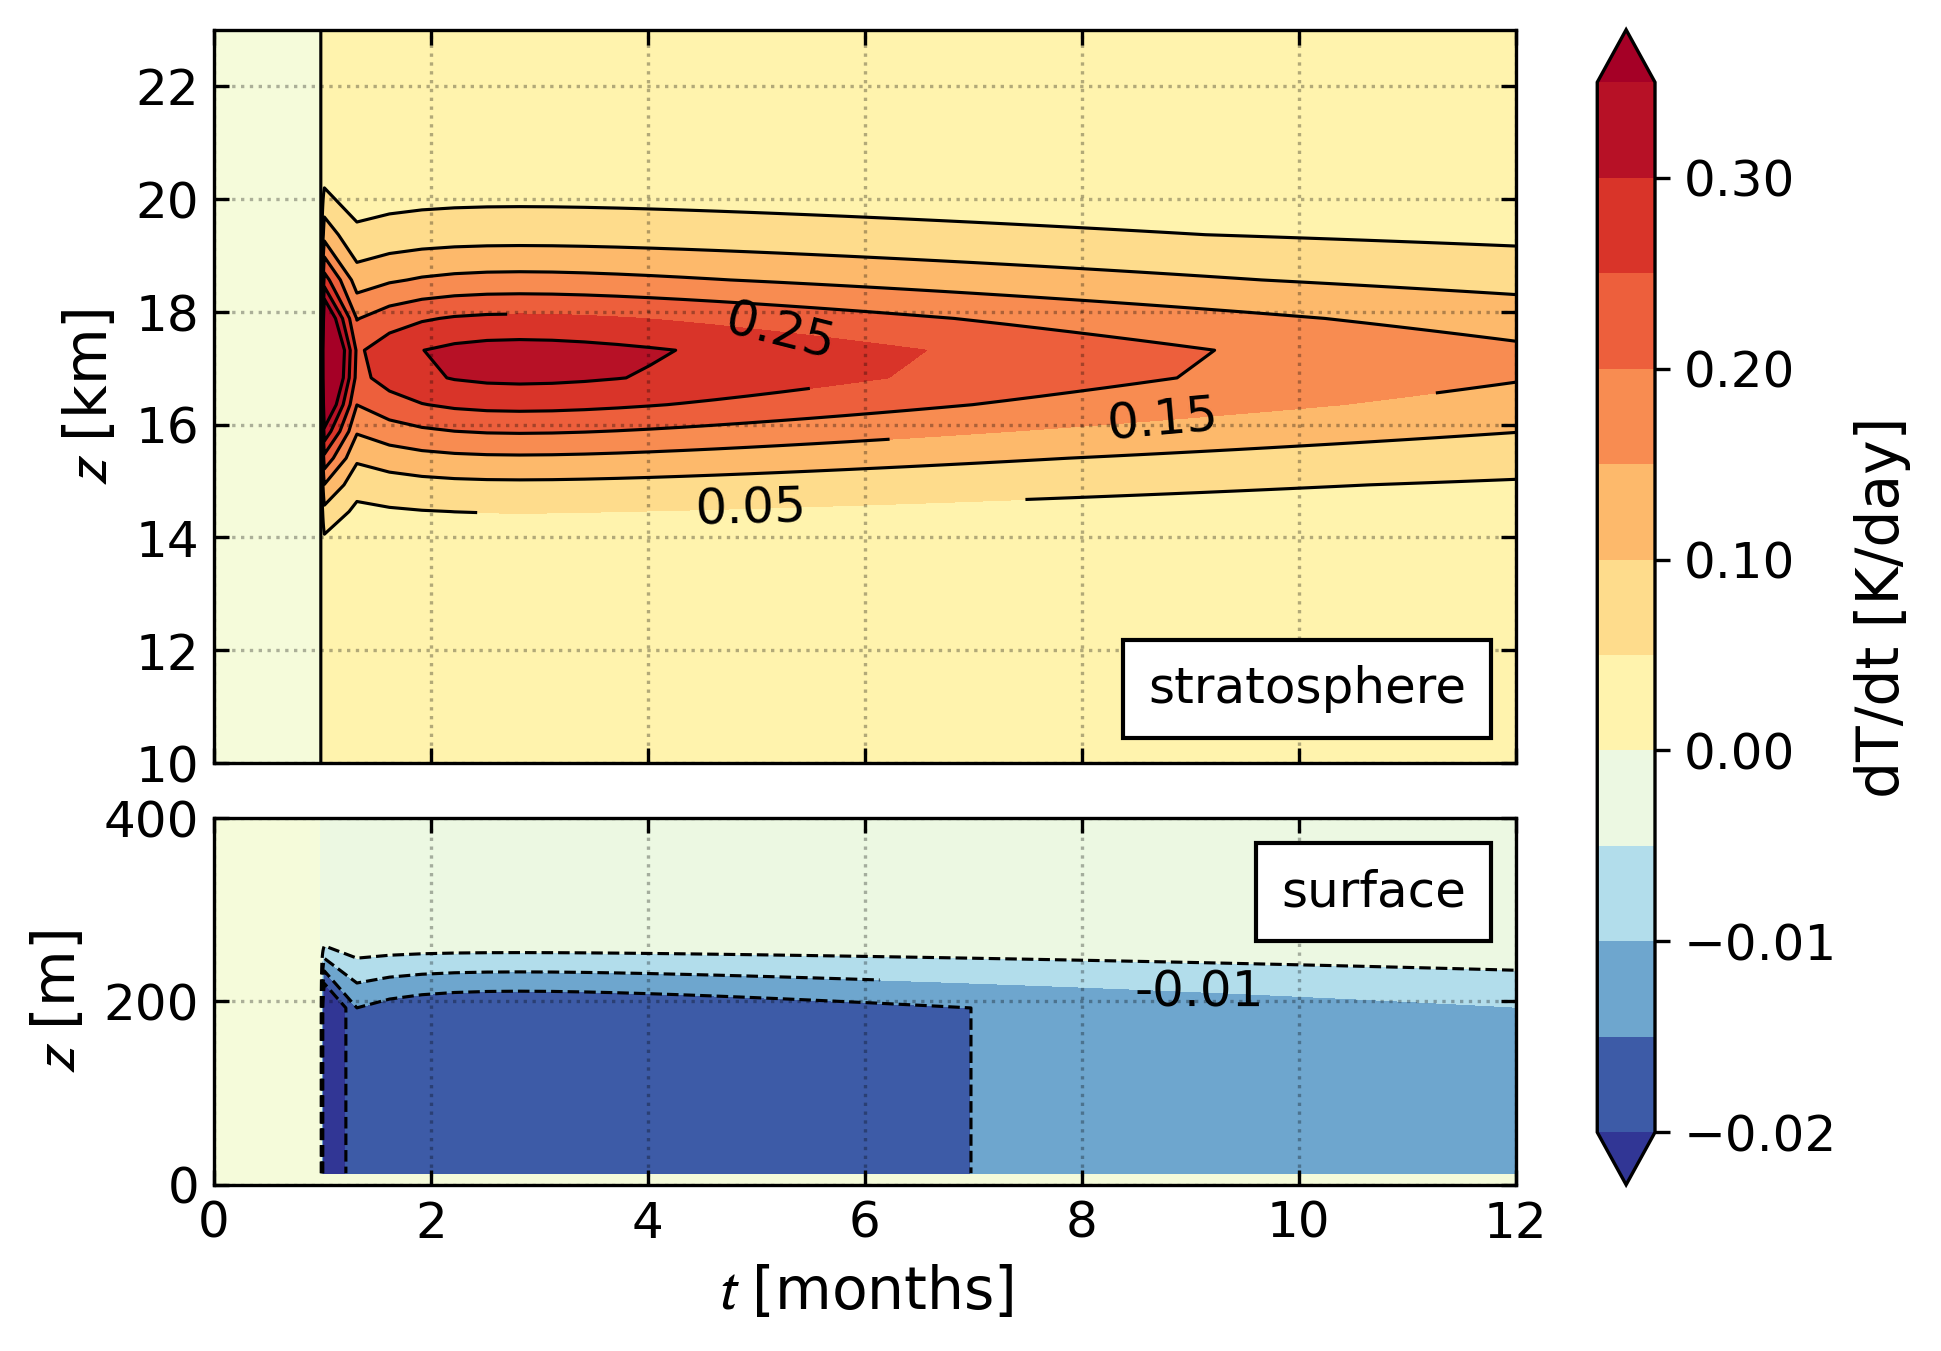
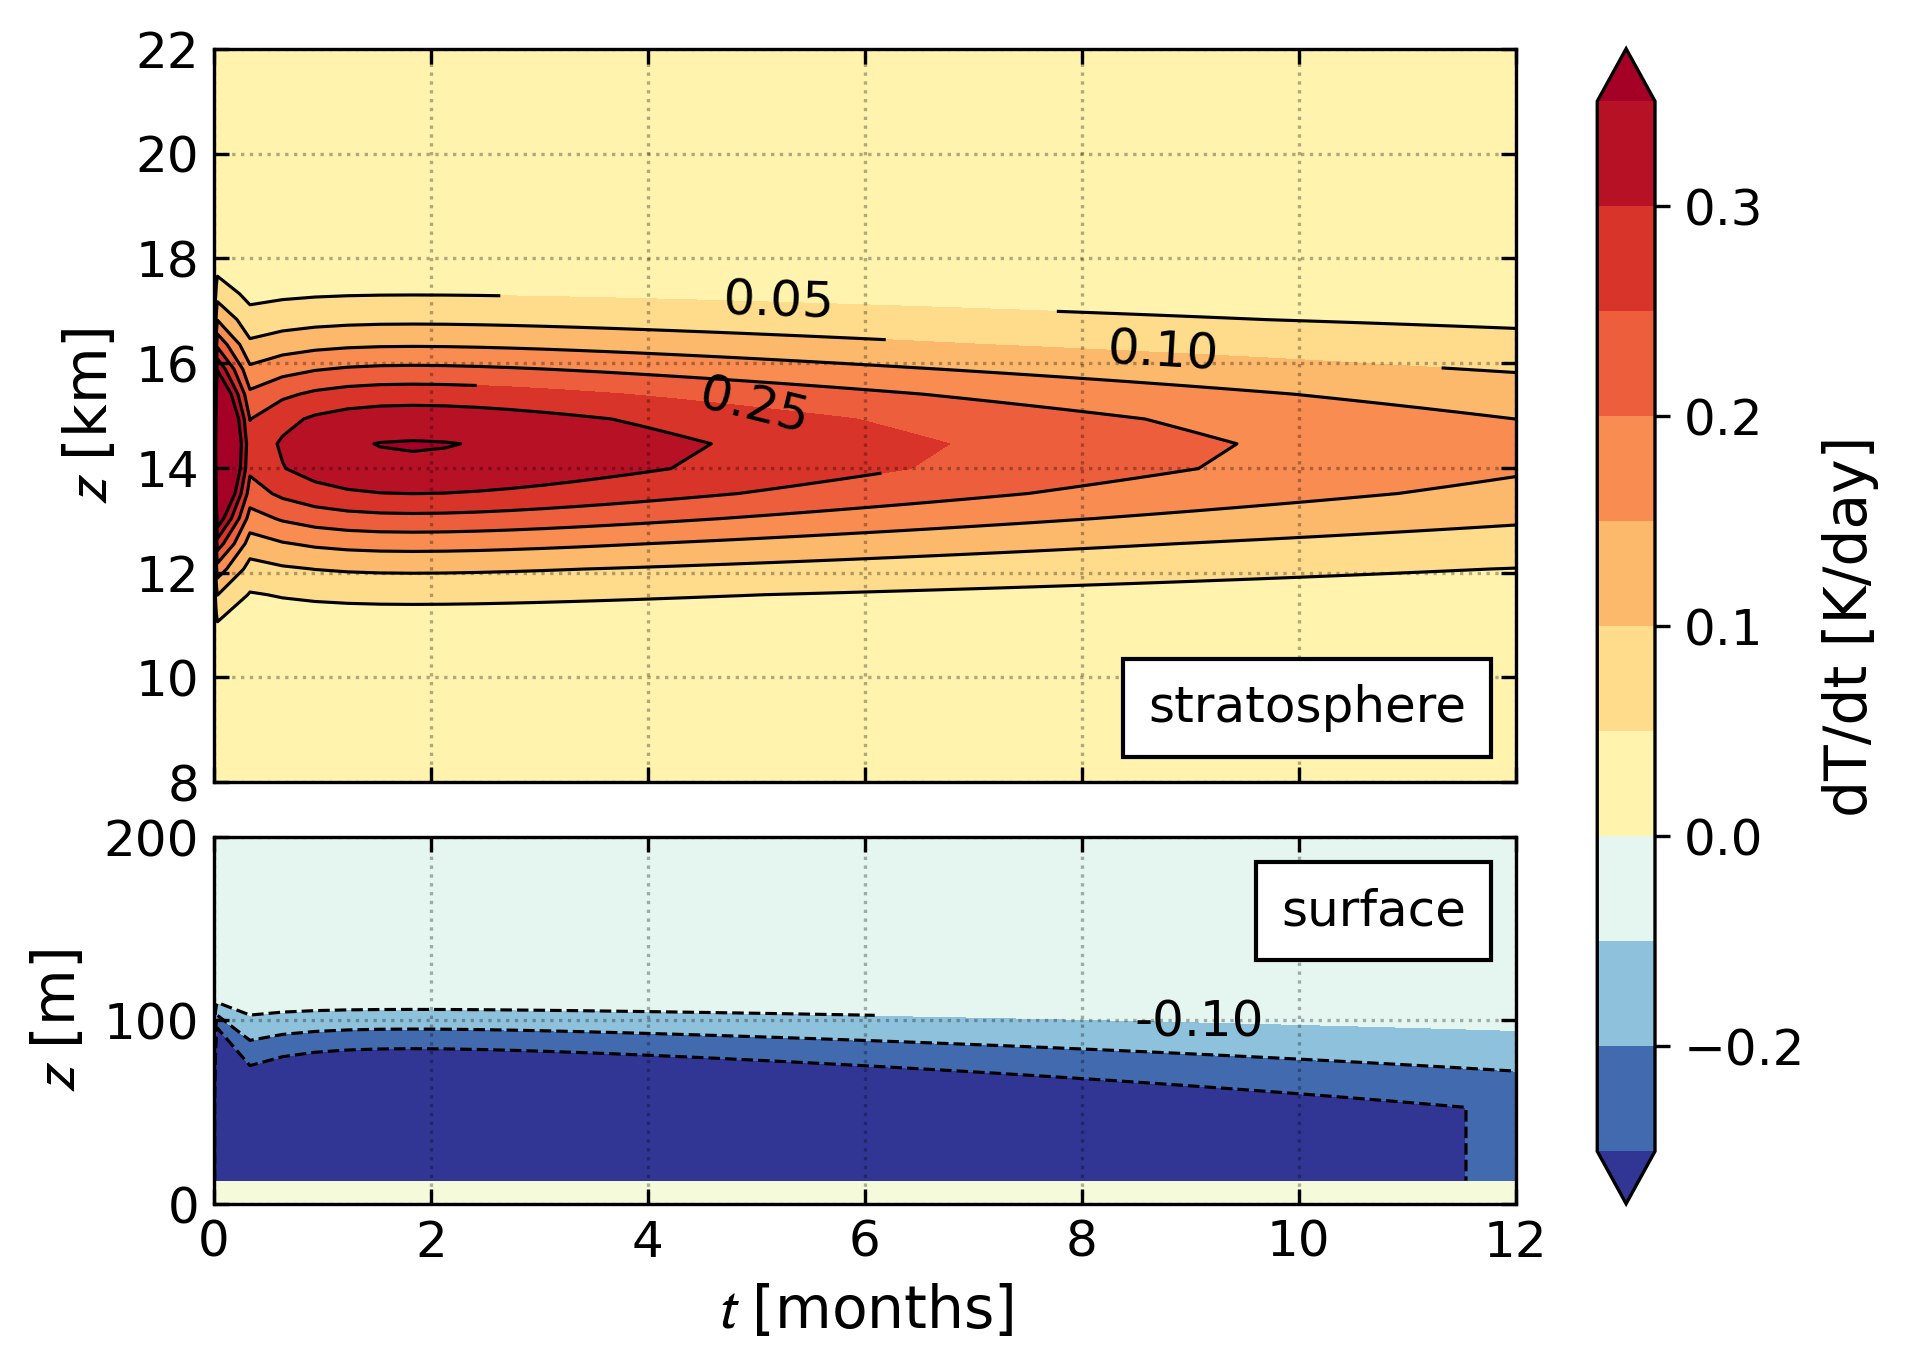
syncing with miniroomba

diff --git a/CLDERA/SAI/analysis/vis_plume_column_agu_new.py b/CLDERA/SAI/analysis/vis_plume_column_agu_new.py
@@ -20,9 +20,9 @@ cmap_gmt = claut.ncar_rgb_to_cmap(gmt)
 # ---------- parameters ----------
 lat0 = 15.15 * u.deg
 lon0 = 120.35 * u.deg
-mu = (17 * u.km).to(u.m)
+mu = (14 * u.km).to(u.m)
 sigma = (1.5 * u.km).to(u.m)
-t0 = (30*u.day).to(u.s)
+t0 = (0*u.day).to(u.s)
 tf = t0 + (24 * u.hr).to(u.s)
 dt = tf-t0
 kso2 = 1/((25 * u.day).to(u.s))
@@ -60,12 +60,17 @@ def compute_tracer_evolution(nlev = 'e3sm', zk = None, dt_inject = None, dt_deca
         True, the return for the numerical result is None
     '''
     # ---------- vertical distribution ----------
-    z0 = 12 * u.km
-    zT = 24 * u.km
+    z0 = 8 * u.km
+    zT = 22 * u.km
     if(zk is None):
         if(nlev == 'e3sm'):
-           zk = np.array([12066.939, 12551.622, 13032.191, 13509.571, 13984.683, 14458.534, 14931.965, 15405.396, 15879.088, 16353.361, 
-                          16828.559, 17318.906, 17882.68, 18564.715, 19366.602, 20290.275, 21337.922, 22513.977, 23836.834, 25323.637, 
+           #try:
+           #    zk = xr.open_dataset('data/E3SM_Z3_HSyr6_horzAvg.nc')['Z3'].values * u.m
+           #except FileNotFoundError:
+           zk = np.array([12066.939, 12551.622, 13032.191, 13509.571, 13984.683, 
+                          14458.534, 14931.965, 15405.396, 15879.088, 16353.361, 
+                          16828.559, 17318.906, 17882.68, 18564.715, 19366.602, 
+                          20290.275, 21337.922, 22513.977, 23836.834, 25323.637, 
                           26980.406, 28813.516, 30832.33, 33047.85]) * u.m
         else:
             zk = (np.linspace(z0, zT, nlev)).to(u.m)
@@ -183,9 +188,9 @@ if(z_figure):
     A = 17*1e9*u.kg/(9*3600*u.s * np.sum(V_e3sm))
     dmdt = A * V_e3sm
 if(heating_figure):
-    #zk = xr.open_dataset('data/E3SM_Z3_HSyr6_horzAvg.nc')['Z3']
-    #zk = sorted(zk.values) * u(zk.units)
-    m_analytic_heat, _, zk_heat, _, t_heat = compute_tracer_evolution(zk=zk, analytic_only=True)
+    zk_heat = xr.open_dataset('data/E3SM_Z3_HSyr6_horzAvg.nc')['Z3']
+    zk_heat = sorted(zk_heat.values) * u(zk_heat.units)
+    m_analytic_heat, _, zk_heat, _, t_heat = compute_tracer_evolution(zk=zk_heat, analytic_only=True)
 
     
 # ==================================================================
@@ -204,26 +209,22 @@ if(main_figure):
     m_tot_num = np.sum(m_numerical.to('Mt'), axis=2)
 
     # ---------- vis ----------
-    fig = plt.figure(figsize=(9,10))
+    fig = plt.figure(figsize=(7,6))
     gs = fig.add_gridspec(nrows=4, ncols=4)
     ax0 = fig.add_subplot(gs[:,0])
-    ax1 = fig.add_subplot(gs[0,1:])
-    ax2 = fig.add_subplot(gs[1,1:])
-    ax3 = fig.add_subplot(gs[2,1:])
-    ax4 = fig.add_subplot(gs[3,1:])
+    ax3 = fig.add_subplot(gs[0:2,1:])
+    ax4 = fig.add_subplot(gs[2:,1:])
 
     # ---- plotting properties
     clev = np.linspace(-7, -4, 10)
     clev_thin_contours = clev[clev % 1 != 0]
-    clev_contours = np.linspace(-7, -4, 4)
-    cm = plt.cm.RdYlBu_r
-    cm = cmap_gmt
+    clev_contours = clev[clev % 1 == 0]
     cm = plt.cm.YlOrRd
     cbar_tick_labels = np.array(['{:.0f}'.format(lev) for lev in clev])
     cbar_tick_labels[clev % 1 != 0] = ''
 
     # ---- global ax settings
-    for ax in [ax0, ax1, ax2, ax3, ax4]:
+    for ax in [ax0, ax3, ax4]:
         if(ax != ax0):
             ax.yaxis.set_label_position("right")
             ax.yaxis.tick_right()
@@ -231,39 +232,26 @@ if(main_figure):
         ax.set_ylabel('$z$ [km]', fontsize=label_fs)
         ax.tick_params(axis='both', which='major', labelsize=tick_fs)
         claut.format_ticks(ax)
-    for ax in [ax1, ax2, ax3]:
+    for ax in [ax3]:
         ax.set_facecolor((1,1,204/255))
 
     # ----- plot V(z) profile
-    #  get higher res zk
-    zk_fine = (np.linspace(10, 26, 1000) * u.km).to(u.m)
+    zk_fine = (np.linspace(8, 22, 1000) * u.km).to(u.m)
     V_fine = f(zk_fine)
     ax0.plot(V_fine.to(u.km**(-1)), zk_fine.to(u.km), '-k', lw=2.5)
     ax0.set_xlabel('$V(z)$ [km$^{-1}$]', fontsize=label_fs)
-    ax0.set_ylim([10, 26])
+    ax0.set_ylim([8, 22])
 
     # ----- contour plots of denisty evolution
-    #cf1 = ax1.contourf(t.to(u.day), zk.to(u.km), m_dens[1].T, cmap=cm, levels=clev, extend='both', vmin=-7.5)
-    cf1 = ax1.contourf(t.to(u.day), zk.to(u.km), m_dens[1].T, cmap=cm, levels=clev, extend='both')
-    ax1.contour(t.to(u.day), zk.to(u.km), m_dens[1].T, levels=clev_thin_contours, colors=['k']*len(clev_contours), linewidths=0.5)
-    ax1.set_xlim([t0.to(u.day).m-1.33, t0.to(u.day).m+14])
-    ax1.set_xlabel('$t$ [days]', fontsize=label_fs)
-    claut.add_annotation_box(ax1, 'ash', loc='upper right', fs=label_fs)
-
-    ax2.contourf(t.to(u.month), zk.to(u.km), m_dens[0].T, cmap=cm, levels=clev, extend='both', vmin=-7.5)
-    ax2.contour(t.to(u.day), zk.to(u.km), m_dens[0].T, levels=clev_thin_contours, colors=['k']*len(clev_contours), linewidths=0.5)
-    ax2.set_xlim([0, 12])
-    ax2.set_xlabel('$t$ [months]', fontsize=label_fs)
-    claut.add_annotation_box(ax2, 'SO$_2$', loc='upper right', fs=label_fs)
-
-    ax3.contourf(t.to(u.year), zk.to(u.km), m_dens[2].T, cmap=cm, levels=clev, extend='both', vmin=-7.5)
+    cf = ax3.contourf(t.to(u.year), zk.to(u.km), m_dens[2].T, cmap=cm, levels=clev, extend='both')
     ax3.contour(t.to(u.day), zk.to(u.km), m_dens[2].T, levels=clev_thin_contours, colors=['k']*len(clev_contours), linewidths=0.5)
-    ax3.set_xlim([-0.35, 5])
+    ax3.set_xlim([-5*0.05, 5])
     ax3.set_xlabel('$t$ [years]', fontsize=label_fs)
+    ax3.set_ylim([8, 22])
     claut.add_annotation_box(ax3, 'sulfate', loc='upper right', fs=label_fs)
 
     # ----- color bar
-    cbar = fig.colorbar(cf1, ax=ax1, orientation='horizontal', location='top')
+    cbar = fig.colorbar(cf, ax=ax3, orientation='horizontal', location='top')
     cbar.set_label('log$_{10}$( density [kg/m$^3$] )', fontsize=label_fs)
     cbar.set_ticklabels(cbar_tick_labels)
     cbar.ax.tick_params(labelsize=tick_fs)
@@ -272,24 +260,16 @@ if(main_figure):
     #ax4.plot(t.to(u.month), m_tot[1], 'c', label='ash')
     ax4.plot(t.to(u.month), m_tot[0], 'c', label='SO$_2$', lw=4)
     ax4.plot(t.to(u.month), m_tot[2], 'orange', label='sulfate', lw=4)
-    ax4.plot(t.to(u.month), m_tot[3], ':', color='orange', label='sulfate validation', lw=3)
-    ax4.plot(t.to(u.month), m_tot_num[0], 'k', label='numerical solutions', lw=0.85)
-    ax4.plot(t.to(u.month), m_tot_num[2], 'k', lw=0.85)
-    ax4.plot(t.to(u.month), m_tot_num[3], 'k', lw=0.85)
     ax4.set_xlabel('$t$ [months]', fontsize=label_fs)
     ax4.set_ylabel('total mass [Mt]', fontsize=label_fs)
     ax4.legend(fancybox=False, fontsize=tick_fs, loc='upper right', ncol=2, frameon=False)
-    ax4.set_xlim([0, 24])
+    ax4.set_xlim([-24*0.05, 24])
 
     plt.tight_layout()
 
     # manually add contour labels after tight layout
     cc3 = ax3.contour(t.to(u.day), zk.to(u.km), m_dens[2].T, levels=clev_contours, colors=['k']*len(clev_contours))
-    ax3.clabel(cc3, cc3.levels, inline=True, fmt='%.0f', fontsize=tick_fs)
-    cc1 = ax1.contour(t.to(u.day), zk.to(u.km), m_dens[1].T, levels=clev_contours, colors=['k']*len(clev_contours))
-    ax1.clabel(cc1, cc1.levels, inline=True, fmt='%.0f', fontsize=tick_fs, manual=((31, 15.2), (33.5, 18.3), (35.4, 18.9), (37.3, 19.4)))
-    cc2 = ax2.contour(t.to(u.day), zk.to(u.km), m_dens[0].T, levels=clev_contours, colors=['k']*len(clev_contours))
-    ax2.clabel(cc2, cc2.levels, inline=True, fmt='%.0f', fontsize=tick_fs, manual=((2.45, 18.53), (4, 18.9), (5.64, 19.3)))
+    #ax3.clabel(cc3, cc3.levels, inline=True, fmt='%.0f', fontsize=tick_fs)
 
     plt.savefig('figs/sai_column_main_fig_new.png', dpi=300)
 
@@ -324,7 +304,7 @@ if(z_figure):
     axV.legend(fancybox=False, fontsize=tick_fs, loc='upper right')
     axV.set_xlabel('$V(z)$ [km$^{-1}$]', fontsize=label_fs)
     axV.set_ylabel('$z$ [km]', fontsize=label_fs)
-    axV.set_ylim([12, 24])
+    axV.set_ylim([8, 22])
 
     # ----- line plots of total mass
     axM.plot(t.to(u.month), (m_tot_8[0]-m_tot_100[0]) * 1e14, '-b', lw=2, 
@@ -413,9 +393,9 @@ if(heating_figure):
     sb= 5.670374419e-8 * u.W/u.m**2/u.K**4
     cp = const.Cp_d
     cell_area = (200*u.km)**2
-    maxaod_z = 0.2 * u.km
+    maxaod_z = 0.1 * u.km
     maxaod_idx = np.searchsorted(zk_heat, maxaod_z)
-    zeta = 4.7e-4
+    zeta = 4e-3
     lat = 0 *np.pi/180
     Isw = 558.54*u.W/u.m**2 * np.cos(lat)
     Ilw = sb*(315*u.K - 60*u.K * np.sin(lat)**2)**4
@@ -423,7 +403,7 @@ if(heating_figure):
     # turn off sulfate_control contribution via toggle at index 3 V
     
     if(retune):
-        blw = np.array([1, 1, 1, 0]) * 0.0042 * u.m**2/u.kg # for single column
+        blw = np.array([1, 1, 1, 0]) * 0.0082 * u.m**2/u.kg # for single column
         bsw = np.array([1, 1, 1, 0]) * 0.3 * u.m**2/u.kg # for single column
     else:
         blw = np.array([1, 1, 1, 0]) * 0.062 * u.m**2/u.kg # for E3SM
@@ -553,7 +533,7 @@ if(heating_figure):
     
     if(retune):
         clev1 = np.linspace(0.05, 0.35, 7)
-        clev2 = np.linspace(-0.02, 0, 5)
+        clev2 = np.linspace(-0.3, 0, 4)
         clev = np.hstack([clev2, clev1])
         clev_lab = [-0.02, -0.01, 0.1, 0.2, 0.3]
         clab_fmt = '.2f'
@@ -594,9 +574,9 @@ if(heating_figure):
     ax2.set_xlabel('$t$ [months]', fontsize=label_fs)
     ax2.set_ylabel('$z$ [m]', fontsize=label_fs)
     ax1.set_ylabel('$z$ [km]', fontsize=label_fs)
-    ax1.set_ylim([10, 23])
+    ax1.set_ylim([8, 22])
     ax1.set_xlim([0, 12])
-    ax2.set_ylim([0, 400])
+    ax2.set_ylim([0, 200])
     ax2.set_xlim([0, 12])
     claut.add_annotation_box(ax1, 'stratosphere', loc='lower right', fs=tick_fs)
     claut.add_annotation_box(ax2, 'surface', loc='upper right', fs=tick_fs)

diff --git a/CLDERA/SAI/analysis/check_aod_std_late.py b/CLDERA/SAI/analysis/check_aod_std_late.py
@@ -15,10 +15,10 @@ from climate_artist import horizontal_slice as pltvert
 # --- miniroomba
 loc = '/Users/joe/tmp'
 out = '/Users/joe/tmp'
-figs = '/Users/joe/repos/climate_analysis/CLDERA/SAI/analysis/figs/aod_check'
+figs = '/Users/joe/repos/climate_analysis/CLDERA/SAI/analysis/figs/aod_check_late'
 
 ens = [xr.open_dataset(glob.glob('{}/ens0{}/AOD.h2*'.format(loc, i+1))[0])['AOD'] for i in range(5)]
-pdb.set_trace()
+
 # zero out almost-zeros
 #for i in range(5):
 #    pdb.set_trace()
@@ -50,24 +50,30 @@ ensstd.to_netcdf('{}/ensstd.nc'.format(out))
 
 # ==================== plot ===========
 
-tstart = 89
+tstart = 135
 cm = plt.cm.rainbow
-clev = np.linspace(0, 1, 6) + 1e-3
+clev = np.linspace(0, 0.07, 6) + 1e-4
 pltargs = {'levels':clev, 'cmap':cm, 'extend':'both'}
 
-clev_c = np.linspace(0.25, 0.75, 3) + 1e-3
+clev_c = np.linspace(0.01, 0.06, 3) + 1e-4
 pltargs_c = {'levels':clev_c, 'colors':None, 'linewidths':1.25}
 
-clev_mean = np.linspace(0, 0.4, 7) + 1e-3
+clev_mean = np.linspace(0, 0.07, 7) + 1e-4
+clev_mean = clev_mean*1000000 #tmp
 cm_mean = plt.cm.Greys
-pltargs_mean = {'levels':clev, 'cmap':cm_mean, 'extend':'both', 'alpha':1}
+pltargs_mean = {'levels':clev_mean, 'cmap':cm_mean, 'extend':'both', 'alpha':1}
 
-clev_std = np.linspace(0, 1, 6) + 1e-3
+clev_std = np.linspace(0, 0.01, 6) + 1e-4
+clev_std = clev_std * 10 #tmp
 cm_std = plt.cm.rainbow
 pltargs_std = {'levels':clev_std, 'cmap':cm_std, 'extend':'both', 'alpha':1}
 
 LON, LAT = np.meshgrid(lon, lat)
 colors = ['r', 'b', 'g', 'm', 'c']
+
+fac = 5
+clev = clev * fac
+clev_c = clev_c * fac
 
 for j in range(nt-tstart):
     
@@ -81,8 +87,8 @@ for j in range(nt-tstart):
     #ax6 = fig.add_subplot(326, projection=ccrs.PlateCarree())
     ax = [ax1, ax2, ax3, ax4]
     fig2 = plt.figure(figsize=(12, 3))
-    ax6 = fig2.add_subplot(121, projection=ccrs.Mercator())
-    ax7 = fig2.add_subplot(122, projection=ccrs.Mercator())
+    ax6 = fig2.add_subplot(121, projection=ccrs.PlateCarree())
+    ax7 = fig2.add_subplot(122, projection=ccrs.PlateCarree())
     fig.suptitle('Day {:.0f}'.format((tstart+j) * 2), fontsize=14)
     fig2.suptitle('Day {:.0f}'.format((tstart+j) * 2), fontsize=14)
         
@@ -113,12 +119,13 @@ for j in range(nt-tstart):
             plthor(lon, lat, var_dict, ax=ax6, annotation=None, include_contours=False, 
                    coastlines=False)
         ax6.plot([0,0], [0,0], color=colors[i], label='ens0{}'.format(i+1))
-        ax6.set_extent((-180, 180, -40, 60))
-        ax7.set_extent((-180, 180, -40, 60))
-        ax6.set_aspect(1.5)
-        ax7.set_aspect(1.65)
+        #ax6.set_extent((-180, 180, -40, 60))
+        #ax7.set_extent((-180, 180, -40, 60))
+        #ax6.set_aspect(1.5)
+        #ax7.set_aspect(1.65)
     ax6.legend(loc='lower left', ncol=2)
     fig.tight_layout()
     fig2.tight_layout()
+    plt.show()
     fig.savefig('{}/ens{:03d}.png'.format(figs, j))
     fig2.savefig('{}/std{:03d}.png'.format(figs, j))

diff --git a/CLDERA/HSW/analysis/vis_WHS_Teq.py b/CLDERA/HSW/analysis/vis_WHS_Teq.py
@@ -168,18 +168,20 @@ levels1 = np.arange(140, 320, 20)
 fig = plt.figure(figsize=(7,5))
 ax = fig.add_subplot(111)
 
-axx = ax.twiny()
-axx.plot(kr.to(1/u.day), pmid/100, '-r', lw=2)
-axx.set_xlabel('RF damping timescale [1/day]', fontsize=12, color='r')
-axx.tick_params(axis='x', colors='red')
-axx.set_xlim([-0.003, 0.35])
+plotRF = False
+if plotRF:
+    axx = ax.twiny()
+    axx.plot(kr.to(1/u.day), pmid/100, '-r', lw=2)
+    axx.set_xlabel('RF damping timescale [1/day]', fontsize=12, color='r')
+    axx.tick_params(axis='x', colors='red')
+    axx.set_xlim([-0.003, 0.35])
 
 cArgs_c = {'fmt':'%d', 'manual':((-43.2, 228), (-26.57, 305), (0, 399), (26.87, 533), 
                                  (40.55, 814), (0, 870))}
 pltargs_c = {'levels':levels1, 'colors':'k', 'linewidths':1.5, 'zorder':1}
 var_dict_c = [{'var':teq_trunc1.T, 'plotType':'contour', 'plotArgs':pltargs_c, 'colorArgs':cArgs_c}]
 cc = pltvert(clat * 180/np.pi, pref_mid_norm*psurf_ref/100, var_dict_c, ax=ax, 
-        plot_zscale=True, slice_at='', xlabel='latitude', ylabel='p  [hPa]')
+        plot_zscale=True, annotation='', xlabel='latitude', ylabel='p  [hPa]')
 for label in cc[0]:
     label.set_rotation(0)
 
@@ -189,10 +191,10 @@ cArgs_c = {'fmt':'%d', 'manual':((0, 105), (0, 29), (0, 16), (0, 9), (0, 6),(0, 
 pltargs_c = {'levels':levels2, 'colors':'k', 'linewidths':1.5, 'zorder':1}
 var_dict_c = [{'var':teq_trunc2.T, 'plotType':'contour', 'plotArgs':pltargs_c, 'colorArgs':cArgs_c}]
 cc = pltvert(clat * 180/np.pi, pref_mid_norm*psurf_ref/100, var_dict_c, ax=ax, 
-        plot_zscale=False, inverty=False, slice_at='', xlabel='latitude', ylabel='p  [hPa]')
+        plot_zscale=False, inverty=False, annotation='', xlabel='latitude', ylabel='p  [hPa]')
 
 
 plt.tight_layout()
-fig.savefig('WHS_newTeq.png', dpi=300)
-#plt.show()
+fig.savefig('WHS_newTeq_noRF.png', dpi=300)
+plt.show()
 

diff --git a/CLDERA/SAI/analysis/1d_heat_functions.py b/CLDERA/SAI/analysis/1d_heat_functions.py
@@ -25,11 +25,11 @@ integ_sw = (np.pi*Re)**2 * S
 
 # -------- heating balance fig
 
-fig = plt.figure()
+fig = plt.figure(figsize=(4,3.5))
 ax = fig.add_subplot(111)
-ax.plot(latd, Ilw, '-r', label='outgoing longwave radiation')
-ax.plot(latd, Isw, '-b', label='absorbed solar radiation')
-ax.plot(latd, Isw - Ilw, '-k', lw=1, label='Net radiation')
+ax.plot(latd, Ilw, '-r', lw=2.5, label='outgoing longwave')
+ax.plot(latd, Isw, '-b', lw=2.5, label='incident shortwave')
+ax.plot(latd, Isw - Ilw, '-k', lw=1.5, label='net radiation')
 ax.plot([-90, 90], [0, 0], '--k', lw=0.75)
 ax.set_xlim([-90, 90])
 ax.grid(alpha=0.4)
@@ -38,9 +38,11 @@ ax.xaxis.set_ticks_position('both')
 ax.legend(loc='upper left', frameon=False)
 ax.set_xlabel('Latitude')
 ax.set_ylabel('Flux Density (W/m2)')
-ax.set_ylim([-250, 725])
+ax.set_ylim([-250, 825])
 
-plt.savefig('toa.png', dpi=300)
+plt.tight_layout()
+plt.savefig('toa_pres.png', dpi=300)
+plt.show()
 
 
 # --------- heating functions with AOD, vmr

diff --git a/CLDERA/HSW/analysis/vis_WHS_Teq_2.py b/CLDERA/HSW/analysis/vis_WHS_Teq_2.py
@@ -139,5 +139,5 @@ ax2.clabel(CS, fmt='%.0f', manual=False, levels = [200, 220, 170])
 
 plt.tight_layout()
 plt.show()
-#plt.savefig('WHS_new.png', dpi=300)
+#plt.savefig('WHS_new_noRF.png', dpi=300)
 
